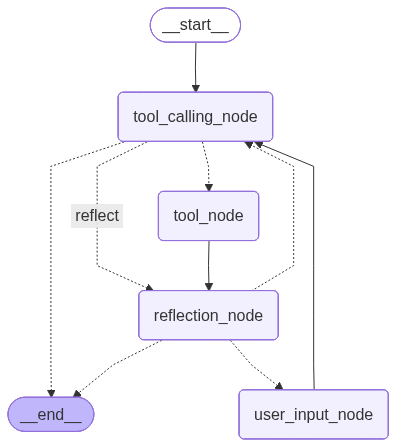
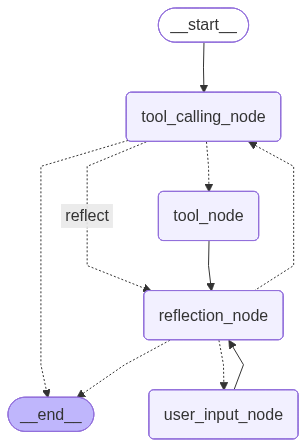
reflection and user_input fixed , testing underway

diff --git a/nodes.py b/nodes.py
@@ -1,22 +1,24 @@
 import os, sys
-import json
+import json, uuid
 from os.path import isfile, isdir, join, abspath
+from argparse import Namespace
 from typing  import List, Any
 
 from langchain_core.tools import tool
 from langgraph.prebuilt import ToolNode
 from langchain.tools.render import render_text_description_and_args
-from langchain_core.messages import HumanMessage, AIMessage, SystemMessage, ToolMessage, AnyMessage
+from langchain_core.messages import HumanMessage, AIMessage, SystemMessage, ToolMessage, ToolCall, AnyMessage
 from langchain.prompts import ChatPromptTemplate, MessagesPlaceholder
 from chains import get_llm
 from schemas import AgentState
 
 from chain_templete import TOOL_SYSTEM_PROMPT, TOOL_HUMAN_PROMPT
 from tools_definition import set_root_dir, tools
-from tool_formatter import _to_tool_call_ai_message
+from tool_formatter import _to_tool_call_ai_message, json_output_parser
 from nodes_templete import *
 
 API_KEY = None
+MAX_RETRIES = 5
 
 def set_api_key(api_key):
     global API_KEY
@@ -30,6 +32,9 @@ class ToolCallingAgent:
         else:
             self.tool_node = ToolNode(list(tools.values()))
         self.api_key = api_key
+        self.latest_decision = None
+        self.latest_instruction = None
+        self.reflection_directive = None
         
     def should_continue(self, state: AgentState) -> Literal["tool_node", "reflect", "__end__"]:
         """
@@ -70,27 +75,38 @@ class ToolCallingAgent:
         global API_KEY
         print("INSIDE TOOL CALLING NODE")
         
+        if state.get("reflections"):
+            for r in reversed(state["reflections"]):
+                self.latest_decision = r.additional_kwargs.get("decision", None)
+                self.latest_instruction = r.additional_kwargs.get("instruction", None)
+                break
+        
+        tool_list = list(tools.values())
         # Bind tools to the LLM so it knows they exist
-        tools_str = render_text_description_and_args(list(tools.values()))
-        llm_with_tools = get_llm(API_KEY).bind_tools(list(tools.values()))
+        tools_str = render_text_description_and_args(tool_list)
+        llm_with_tools = get_llm(API_KEY).bind_tools(tool_list)
+        
         prompt = ChatPromptTemplate.from_messages([
             ("system", TOOL_SYSTEM_PROMPT),
             ("human", TOOL_HUMAN_PROMPT),
-            ("placeholder", "{chat_messages}"), # This injects the conversation history
+            MessagesPlaceholder(variable_name="chat_messages", optional=True), # This injects the conversation history
         ])
-        
         tool_prompt = prompt.partial(tools=tools_str)
         chain = (tool_prompt | llm_with_tools)
         
+        chat_messages = state["messages"][1:] if len(state["messages"]) > 1 else []
         response = chain.invoke({
             "user_input": state["messages"][0].content,
-            "chat_messages": state["messages"][1:] if len(state["messages"])>1 else []})
-        if not hasattr(response, "tool_calls"):
+            "chat_messages": chat_messages,
+            })
+        tool_calls = getattr(response, "tool_calls", None)
+        if not tool_calls:
             print("USING TOOL WRAPPER")
             response = _to_tool_call_ai_message(get_llm(API_KEY), tools_str, response)
-        elif len(getattr(response, "tool_calls"))>1:
+        elif len(tool_calls)>1:
             print("ENFORCING SINGLE TOOL")
-            response.tool_calls = [response.tool_calls[0]]
+            response.tool_calls = [tool_calls[0]]
+            
         print(response)
         return {"messages": [response]}
 
@@ -107,12 +123,17 @@ class ReflectionAgent:
     def user_input_node(self, state: AgentState):
         user_inp = ""
         while True:
-            user_inp = input(state["reflections"][-1].additional_kwargs["instruction"]+"\n\nPlease enter a prompt to continue...")
+            query = state["reflections"][-1].additional_kwargs["instruction"]+"\n\nPlease enter a prompt to CONTINUE...\n\n"
+            user_inp = input(query)
             if len(user_inp.strip())>0:
                 break
-        return {
-            "messages": [HumanMessage(content=user_inp)]
-        }
+        tool_id = str(uuid.uuid4())
+        tool_calls = {"name": "user_input", "args": {"query": query, "input": user_inp}}
+        state["messages"].extend([
+            AIMessage(content=f"Executing tool-call for user input: \n\n```json\n{json.dumps(tool_calls, indent=2)}\n```\n"),
+            ToolMessage(name="user_input", content=user_inp, tool_call_id=tool_id),
+        ])
+        return state
     
     def reflect(self, state: AgentState):
         print("\n" + "="*60)
@@ -121,20 +142,21 @@ class ReflectionAgent:
         
         messages = state["messages"]
         original_request = messages[0].content
-        assert original_request
+        assert len(original_request.strip())>0
+        print("REFLECTION MESSAGES:")
+        print([f"{f.type}:{f.content}" for f in messages])
         print(f"Original Request: {original_request}...")
         
-        tool_name = getattr(messages[-1], "name", None)
-        tool_result = getattr(messages[-1], "content", None)
+        last_message = messages[-1]
+        tool_name = getattr(last_message, "name", None)
+        tool_result = getattr(last_message, "content", None)
         assert tool_name
         assert tool_result
-        print(f"Tool Result Preview: {messages[-1]}...")
+        print(f"Tool Name: {tool_name} | Tool Result Preview: {tool_result}\n")
+        
+        if tool_name in ("user_input"):
+            tool_result = USER_INPUT_REFLECTION_DIRECTIVE.format(user_input=tool_result)
     
-        # prompt_text = REFLECTION_TEMPLATE_PROMPT.format(
-        #     reflection_schema=json.dumps(REFLECTION_OUTPUT_SCHEMA),
-        #     tool_result=tool_result,
-        #     original_request=original_request,
-        # )
         tools_str = render_text_description_and_args(list(tools.values()))
         prompt_template = ChatPromptTemplate.from_messages([
             SystemMessage(content=REFLECTION_SYSTEM_PROMPT),
@@ -144,18 +166,62 @@ class ReflectionAgent:
         
         print(" Invoking LLM for reflection...")
         llm = get_llm(self.api_key)
-        reflection_llm = llm.with_structured_output(ReflectionOutput)
-        reflection_chain = (prompt_template | reflection_llm)
-        response = reflection_chain.invoke({
-            "chat_messages": state["messages"][:-1],
-            "reflection_schema": json.dumps(REFLECTION_OUTPUT_SCHEMA),
-            "tools": tools_str,
-            "tool_name": tool_name,
-            "tool_result": tool_result,
-            "original_request": original_request
-        })
+        try:
+            reflection_llm = llm.with_structured_output(ReflectionOutput)
+            reflection_chain = (prompt_template | reflection_llm)
+        except Exception as e:
+            print("Error binding SCHEMA to LLM.")
+            raise ValueError(str(e))
+        
+        chat_messages = messages[:-1]
+        response = None
+        retry_ctr = 0
+        while retry_ctr<MAX_RETRIES:
+            try:
+                response = reflection_chain.invoke({
+                    "chat_messages": chat_messages,
+                    # "reflection_schema": json.dumps(REFLECTION_OUTPUT_SCHEMA),
+                    "reflection_schema": REFLECTION_OUTPUT_JSON,
+                    "tools": tools_str,
+                    "tool_name": tool_name,
+                    "tool_result": tool_result,
+                    "original_request": original_request
+                })
+                break
+            except Exception as e:
+                retry_ctr += 1
+                print(f"Structured output failed with error: {e} \nRetrying with `json_output_parser`")
+                reflection_json_chain = (prompt_template | llm)
+                ai_response = reflection_json_chain.invoke({
+                    "chat_messages": chat_messages,
+                    # "reflection_schema": json.dumps(REFLECTION_OUTPUT_SCHEMA),
+                    "reflection_schema": REFLECTION_OUTPUT_JSON,
+                    "tools": tools_str,
+                    "tool_name": tool_name,
+                    "tool_result": tool_result,
+                    "original_request": original_request
+                })
+                response = json_output_parser(llm, ai_response.content, required_keys=["decision", "instruction"], force_parse=False)
+                if not isinstance(response, dict):
+                    response = None
+                    continue
+            finally:
+                print(response)
+                if isinstance(response, dict) and (set(["decision", "instruction"])<=set(list(response.keys()))):
+                    response = ReflectionOutput(decision=response["decision"], instruction=response["instruction"])
+                    break
+                else:
+                    response = None
+                    print(f"Retrying Iteration: {retry_ctr}")
+                    continue
+        assert response
         
         normalized = response.decision
+        if (tool_name.lower() in ("user_input")) and (normalized.lower() in ("done")):
+            print("ENFORCING `CONTINUE` after `user_input`")
+            response.decision = "CONTINUE"
+            normalized = response.decision
+        
         reflection_id = len(state["messages"])
         agent_state = {
             "messages": [

diff --git a/nodes_templete.py b/nodes_templete.py
@@ -4,37 +4,37 @@ from typing import TYPE_CHECKING, Any, Dict, List, Optional, Sequence, TypeVar, 
 
 class ReflectionOutput(BaseModel):
     decision: Literal["DONE", "CONTINUE", "USER_INPUT"] = Field(
-        ..., description="Whether the task is complete or needs another iteration, or requires an input from the human user."
+        "CONTINUE", description="Whether the original task is complete, needs another iteration, or requires an input from the human user."
     )
     instruction: Optional[str] = Field(
         None,
-        description="A detailed fix instruction, required if decision is CONTINUE or USER_INPUT."
+        description="A detailed instruction text for the selected decision."
     )
 
 REFLECTION_OUTPUT_SCHEMA = {
     "$schema": "http://json-schema.org/draft-07/schema#",
     "type": "object",
     "additionalProperties": False,
-    "required": ["decision"],
+    "required": ["decision", "instruction"],
     "properties": {
         "decision": {"type": "string", "enum": ["DONE", "CONTINUE", "USER_INPUT"]},
-        "instruction": {"type": "string", "minLength": 1, "maxLength": os.getenv("REFLECTION_MAX_TOKENS", 1024)},
-    },
-    "allOf": [
-        {
-            "if": {"properties": {"decision": {"const": "CONTINUE"}}},
-            "then": {"required": ["instruction"]},
-        },
-        {
-            "if": {"properties": {"decision": {"const": "DONE"}}},
-            "then": {"not": {"required": ["instruction"]}},
-        },
-    ],
+        "instruction": {"type": "string"},
+    }
 }
+
+REFLECTION_OUTPUT_JSON = """```json
+{
+  // REQUIRED
+  "decision": "<string: one of 'DONE' | 'CONTINUE' | 'USER_INPUT'>",
+  // REQUIRED
+  "instruction": "<string: A detailed instruction text for the selected decision.>"
+}
+```
+"""
 
 REFLECTION_SYSTEM_PROMPT = """You are a deterministic REFLECTION AGENT.
 
-You evaluate whether the tool execution result satisfies the original user request.
+You evaluate whether the tool execution result satisfies the original user task.
 
 You MUST output exactly ONE valid JSON object that conforms to the provided JSON schema.
 No markdown, no code fences, no explanations, no extra text.
@@ -46,16 +46,26 @@ Return only the decision and, if needed, a fix instruction.
 
 REFLECTION_TEMPLATE_PROMPT = """You are a REFLECTION AGENT that reviews tool execution results.
 
-Your job is to output ONE JSON object that conforms EXACTLY to the schema.
+Your job is to output a JSON object in markdown format that conforms EXACTLY to the given schema.
+
+Available Tools:
+{tools}
+
+Original user task:
+{original_request}
+
+Current Tool execution result:
+TOOL_NAME: {tool_name}
+TOOL_OUTPUT: {tool_result}
 
 DECISION RULES:
-- decision = "DONE" if the tool output fully satisfies the original request with no errors, missing requirements, or follow-up needed.
-- decision = "CONTINUE" if any part of the request is incomplete, incorrect, unusable, or requires revision, and the agent can proceed without asking the user anything.
+- decision = "DONE" if the tool execution result fully satisfies the original user task with no errors, missing requirements, or follow-up needed.
+- decision = "CONTINUE" if any part of the user task is incomplete, incorrect, unusable, or requires revision, and the agent can proceed without asking the user anything.
 - decision = "USER_INPUT" if the task cannot be completed without additional information from the user (for example: missing file path, missing required parameters, ambiguity between multiple valid options, access/permission constraints, or the tool output indicates a recoverable issue that requires the user to decide).
 
 INSTRUCTION FIELD RULES:
+- If decision = "DONE", include "instruction" describing why the original user task is complete based on the conversation history and the current Tool execution result.
 - If decision = "CONTINUE", include "instruction" describing the fix and the tool call to be executed in sufficient detail for the next agent step.
-- If decision = "DONE", do NOT include "instruction".
 - If decision = "USER_INPUT", include "instruction" as a single, direct sentence telling exactly what information the user must provide, do NOT include multiple questions.
 
 OUTPUT RULES (STRICT):
@@ -65,14 +75,18 @@ OUTPUT RULES (STRICT):
 
 JSON SCHEMA:
 {reflection_schema}
+"""
 
-Available Tools:
-{tools}
+USER_INPUT_REFLECTION_DIRECTIVE = """The following input was received from the user:
 
-Original user request:
-{original_request}
+<USER_INPUT>
+{user_input}
+</USER_INPUT>
 
-Current Tool execution result:
-TOOL_NAME: {tool_name}
-TOOL_OUTPUT: {tool_result}
+- Determine whether this input is sufficient to complete the original task.
+- If the task can be completed without any additional user information, follow the normal decision rules and execute the next decision.
+- If the task cannot stiil be completed without more information from the user, \
+    include an instruction that clearly and concisely states exactly what additional information the user must provide next.
+- Do not output decision `DONE` if steps still need to be performed to complete the original user task, \
+    `CONTINUE` with the next appropriate decision and instruction.
 """

diff --git a/chains.py b/chains.py
@@ -2,7 +2,6 @@ import os
 from langchain_openai import ChatOpenAI
 from langchain_core.prompts import ChatPromptTemplate
 
-# 3. LLM Initialization
 def get_llm(api_key=None):
     """Initialize the model. Assumes OPENAI_API_KEY is set in env."""
     assert api_key
@@ -10,11 +9,17 @@ def get_llm(api_key=None):
     base_url = None
     if api_key=="OLLAMA":
         base_url = os.getenv("OLLAMA_SERVER")
+    elif api_key.startswith("sk-or-v1"):
+        base_url = os.getenv("OPERNROUTER_SERVER")
     assert base_url
     
     return ChatOpenAI(
         base_url = base_url, 
         model = os.getenv("MODEL_ID"),
         api_key = api_key, 
-        temperature = 0.4,
+        temperature = 0.7,
+        top_p=0.9,
+        extra_body={
+            "repetition_penalty": 1.03
+        }
     )

diff --git a/main.py b/main.py
@@ -106,9 +106,15 @@ def coding_agent(query: str) -> str:
     # Only check for tool_calls if it's an AIMessage
     if tool_calls:=getattr(final_message, "tool_calls", None):
         print("\n Tools used:")
+        tool_response = ""
         for tc in tool_calls:
-            print(f"   - {tc.get('name', 'unknown')}: {tc.get('args', {})}")
-    return final_message.content
+            tool_response += f"   - {tc.get('name', 'unknown')}: {tc.get('args', {})}\n\n"
+        print(tool_response)
+        return tool_response
+    else:
+        final_answer = "\n\n".join([f.content for f in final_state["messages"] if f.type=="ai"])
+        # return final_message.content
+        return final_answer
 
 def run_cli(args):
     # 1. Get user query from Args

diff --git a/tool_formatter.py b/tool_formatter.py
@@ -87,9 +87,7 @@ def json_output_parser(llm, message_content, required_keys=None, force_parse=Fal
             current_text = fixed_str
         except Exception:
             continue
-    raise ValueError(f'Failed to parse JSON after {max_retries} attempts. The following is the input JSON data:\n{message_content}\n\
-Analyse the changes necessary and revise the $JSON_BLOB to re-initiate the "Thought-Action-Observation" step for the required task in the workflow. \
-Ensure that your response aligns with the specified $JSON_BLOB format.')
+    raise ValueError(f'Failed to parse JSON after {max_retries} attempts. The following is the input JSON data:\n{message_content}')
 
 def strip_json_markdown(cleaned: str) -> str:
     """

diff --git a/tools_definition.py b/tools_definition.py
@@ -257,8 +257,7 @@ def write_file(file_path: str, content: str) -> str:
                 "src/utils/helpers.py"
 
         content (str):
-            The full text content to write into the file.
-            This content completely replaces the existing file contents.
+            The full text/code content to write into the file.
             For code generation:
                 - Must be valid, executable code
                 - Must follow PEP 8 style guidelines

diff --git a/graphs.py b/graphs.py
@@ -39,7 +39,7 @@ def build_graph(api_key):
     # Set the entry point
     workflow.add_edge(START, "tool_calling_node")
     workflow.add_edge("tool_node", "reflection_node")
-    workflow.add_edge("user_input_node", "tool_calling_node")
+    workflow.add_edge("user_input_node", "reflection_node")
     # Add the conditional edges
     workflow.add_conditional_edges(
         "tool_calling_node",
